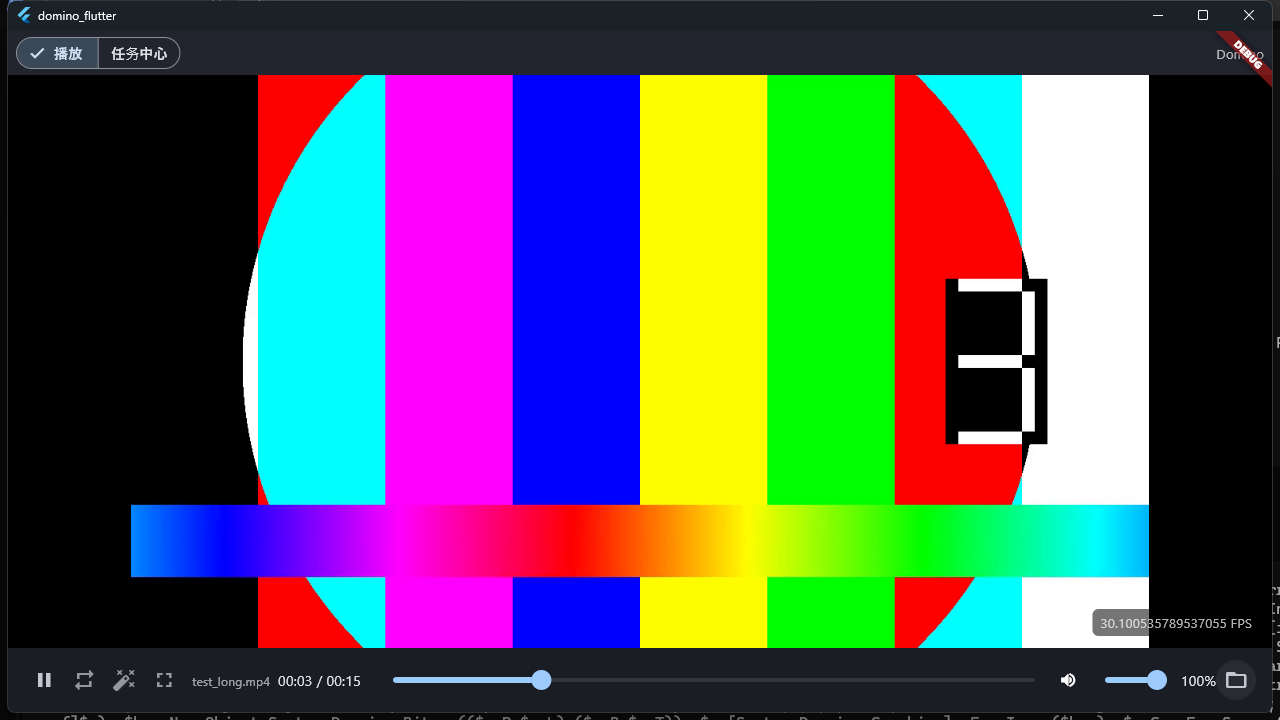
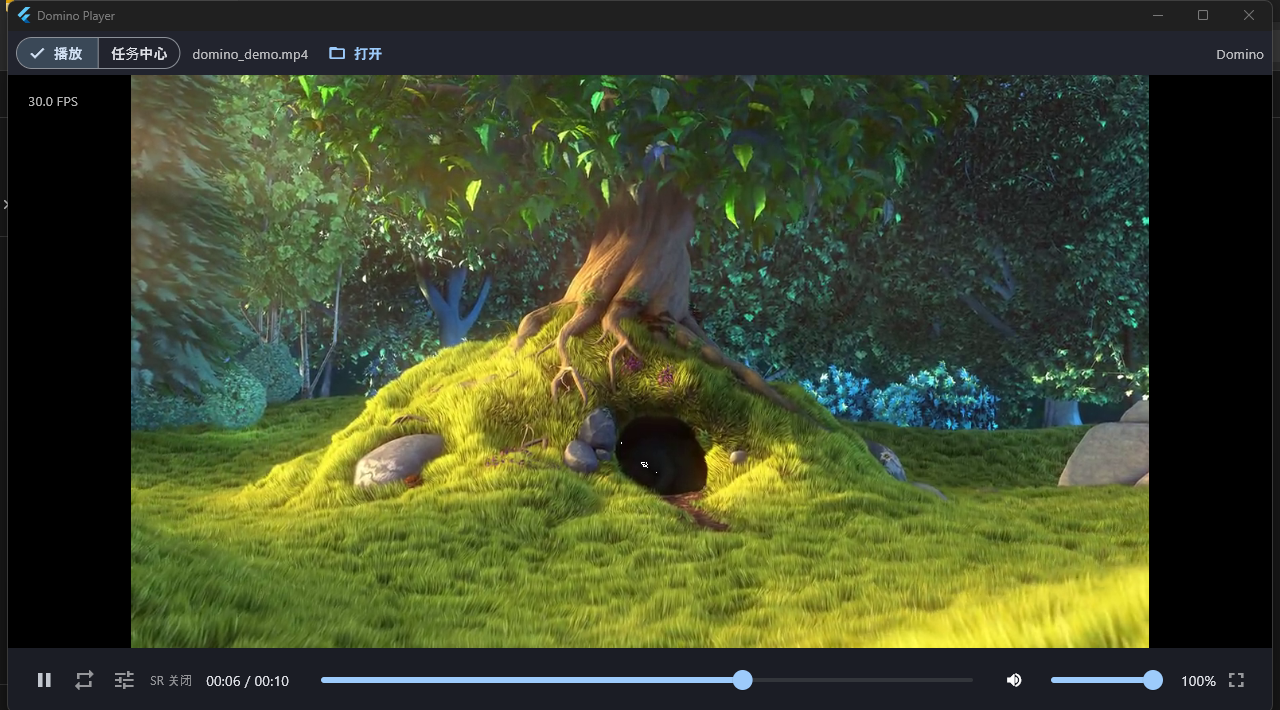
docs: 完善功能介绍与界面截图
- 补齐播放、全屏、美化、播放历史、实时 SR 与任务中心说明\n- 新增播放页、美化、历史、任务中心、全屏截图\n- 增加安全与隐私、已知限制、模型库说明

diff --git a/README.md b/README.md
@@ -1,15 +1,84 @@
 # Domino Player
 
-跨平台视频**超分 + 美颜**播放器：**Flutter 前端**（当前 Windows 桌面）+ **可移植 C++ 引擎**（FFmpeg 解码 + NCNN Vulkan 超分）。
+跨平台视频**超分 + 美颜**播放器：**Flutter 前端**（当前 Windows 桌面）+ **可移植 C++ 引擎**（FFmpeg 解码 / 编码 + NCNN Vulkan 超分）。
 
-- **播放**：播放/暂停/seek/音量/循环、**GPU 着色器磨皮/美白/滤镜**（D3D11 HLSL，CPU 自动回退）、滤镜缩略图、动态宽高比、FPS 角标、系统文件选择框。
-- **实时超分（实验性）**：播放页手动切换关闭/1080p/2K/4K；解码/SR 已移到原生工作线程，720p 源 1080p 约 29 FPS，2K/4K 分别约 15/6 FPS。2K/4K 持续跟不上音频时会**自动降到 1080p**（仍慢则关闭 SR），手动选档可重试（详见 `docs/plan-sr-worker-2026-10.md`、`docs/plan-auto-degrade-2026-10.md`）。
-- **超分任务中心**：新建/开始/暂停/断点续编/边播放（边编码边看）/删除，任务持久化。新建任务可选 **快速/平衡/高质量**（默认高质量 FullSource）、**真人/实拍 / 动画** 内容类型，以及 **标准 / 高质量** 模型档位；动画标准会按目标比例自动选 animevideov3 **x2/x3/x4**，真人标准目前用 General x4；高质量档用 x4plus / x4plus-anime（更慢，输入限 960）。模型随任务保存并在续编时沿用。高质量保留源分辨率送 4x 模型，再 Lanczos 缩到目标，编码 CRF18；比实时路径更慢但细节更好（见 `docs/plan-offline-sr-quality-2026-10.md`）。
-- **引擎可移植**：`domino_core` 不含任何平台依赖（视频经 `IFrameOutput`、音频经 `AudioSink`），任意前端可链接（Windows 现用 WASAPI + Flutter 纹理）。
-
-架构、约束与完成定义（DoD）见 [`AGENTS.md`](AGENTS.md)；当前进度与里程碑见 [`docs/roadmap.md`](docs/roadmap.md)。
+当前重点是把「实时播放」和「离线超分任务」做成一套可用的桌面工具：播放页支持沉浸式全屏、侧边美化 / 播放历史、实时 SR；任务中心支持新建、暂停、断点续编、边播放和删除任务。
 
 ![Domino Player 播放界面](docs/screenshots/main.png)
+
+## 功能一览
+
+### 播放与交互
+
+- **本地视频播放**：FFmpeg 解码，音频经 WASAPI 输出，支持播放 / 暂停、seek、音量、循环、动态宽高比。
+- **沉浸式全屏**：隐藏首页标签栏和播放页顶栏，只保留视频；控制条 3 秒无操作自动隐藏，移动鼠标 / 点击画面重新显示，`Esc` 或右下角按钮退出。
+- **顶部文件栏**：当前文件名和「打开」按钮就在「播放 / 任务中心」标签旁；长文件名自动省略。
+- **控制条**：播放 / 暂停、循环、选项、实时 SR、时间、可拉伸 seek、音量、全屏；全屏按钮固定在控制条最右侧，窄窗口也保持可见。
+- **侧边选项面板**：从右侧滑入，合并「美化」和「播放历史」两个页签，不打断视频播放。
+- **播放历史**：自动记录最近 20 个影片及播放位置，点击历史项重新打开并续播；数据保存在 `%APPDATA%\DominoPlayer\history.json`。
+- **系统文件选择框**：通过 FFI 调用 Windows `IFileOpenDialog`，不额外引入文件选择插件。
+- **FPS / 状态提示**：左上角显示 FPS；SR 失败、自动降档、打开失败都有界面反馈。
+
+### 美颜与滤镜
+
+- **GPU 着色器美颜**：D3D11 HLSL 两遍高斯磨皮 + 美白 / 滤镜，经 Flutter GPU surface 直接上屏；无 D3D11 或设置 `DOMINO_CPU_BEAUTY=1` 时回退 CPU 路径。
+- **磨皮 / 美白**：各自独立滑杆和百分比，互不影响。
+- **7 种滤镜**：原图、黑白、日常清新、暖色、净色、复古胶片、粉调；三列网格展示，缩略图按当前画面实时生成。
+- **实时预览**：打开面板或调整磨皮 / 美白后自动刷新滤镜缩略图，方便对比效果。
+
+### 实时超分（实验性）
+
+- 播放页可切换 **SR 关闭 / 1080p / 2K / 4K**，由 NCNN Vulkan 实时推理。
+- 解码和 SR 已移到原生 VideoWorker，UI 线程只负责取帧和呈现；seek 带 generation，避免旧帧回跳。
+- 720p 源实时 1080p 约 **29.6 FPS**；2K / 4K 约 **15 / 5.9 FPS**，取决于显卡和片源。
+- **自动降档**：4K / 2K 持续落后音频约 1 秒会降到 1080p；1080p 仍跟不上则关闭 SR。手动选档会清除自动降档状态并重试。
+- 开启 SR 后仍可叠加 GPU 美颜和滤镜。
+
+### 离线超分任务中心
+
+- **新建任务**：选择源视频、输出分辨率、超分质量（快速 / 平衡 / 高质量）、内容类型（真人/实拍 / 动画）和模型档位（标准 / 高质量）。
+- **任务管理**：开始、暂停、断点续编、边播放（编码产物边写边看）、删除；任务状态和进度实时刷新。
+- **持久化**：任务信息写入 `meta.tsv`，包括质量档、内容类型、模型和 SR 输入策略；重启或续编时沿用，不会悄悄换模型。
+- **断点续编**：取消或失败后保留续编分段，下次启动先合并再继续；主文件替换有备份和回滚。
+- **编码设置**：输出 MP4 / fMP4，`faststart`；x264 CRF18 + preset slow，关闭 B 帧并启用 `zerolatency`，避免 fMP4 音视频起点偏移。
+- **输出质量**：默认高质量 FullSource 输入（源分辨率，最高 1920 宽），4x 模型推理后用 Lanczos 缩放到目标分辨率；高质量模型档细节更好但更慢。
+
+### 模型库
+
+| 模型 | 用途 | 倍率 | 说明 |
+|---|---|---:|---|
+| `RealESRGAN_General_x4_v3` | 真人/实拍标准 | 4x | 通用 Real-ESRGAN，实时与离线默认标准模型 |
+| `realesr-animevideov3-x2` | 动画标准 | 2x | 目标 ≤ 2x 源宽时自动选择 |
+| `realesr-animevideov3-x3` | 动画标准 | 3x | 目标 ≤ 3x 源宽时自动选择 |
+| `realesr-animevideov3-x4` | 动画标准 | 4x | 更大放大倍率 |
+| `realesrgan-x4plus` | 真人/实拍高质量 | 4x | 输入上限 960，慢但细节更强 |
+| `realesrgan-x4plus-anime` | 动画高质量 | 4x | 输入上限 960，动画线条更干净 |
+
+- 动画标准会按 `目标宽 / 源宽` 自动选 x2 / x3 / x4；真人标准目前只有 x4。
+- 高质量档 `x4plus` / `x4plus-anime` 的输入宽限制为 960，超出会先缩放，避免显存溢出。
+- 模型文件和许可说明在 [`assets/models/sr/ncnn/`](assets/models/sr/ncnn/)；任务续编会沿用创建时选择的模型。
+
+### 可移植引擎
+
+- `domino_core` 不依赖 D3D11 / WASAPI：视频经 `IFrameOutput` 输出，音频经 `AudioSink` 注入，任意前端都可链接。
+- Windows 使用 WASAPI + Flutter 纹理；后续移动端只需注入对应 `AudioSink` / 视频输出实现。
+- Flutter 通过 `domino_engine.dll` 的 `extern "C"` FFI 桥调用引擎；GPU 美颜使用 D3D11 共享纹理上屏。
+- A/V 同步按音频时钟和 PTS 呈现；暂停 / 恢复 / seek 都会重置时钟锚点。
+
+## 截图
+
+<p align="center">
+  <img src="docs/screenshots/main.png" width="49%" alt="播放页：顶栏文件、控制条和实时 FPS" />
+  <img src="docs/screenshots/beauty.png" width="49%" alt="美化面板：磨皮/美白滑杆与三列滤镜" />
+</p>
+<p align="center">
+  <img src="docs/screenshots/history.png" width="49%" alt="播放历史侧栏" />
+  <img src="docs/screenshots/task-center.png" width="49%" alt="超分任务中心新建任务" />
+</p>
+
+![全屏播放界面](docs/screenshots/fullscreen.png)
+
+> 截图中的演示视频来自 Blender Foundation 的 *Big Buck Bunny*（CC BY 3.0），仅用于界面展示，不随仓库分发。
 
 ## 下载（Windows 预编译包）
 
@@ -30,7 +99,7 @@
   - `libs/ffmpeg/ffmpeg-master-latest-win64-gpl-shared/`
   - `libs/ncnn/ncnn-20260526-windows-vs2022-shared/`
 
-超分模型：`assets/models/sr/ncnn/RealESRGAN_General_x4_v3.{param,bin}`。
+超分模型放在 `assets/models/sr/ncnn/`，包括标准、动画 x2/x3/x4 和高质量模型（见上表）。
 
 ## 构建与运行
 
@@ -59,7 +128,7 @@ ctest --test-dir build -C Release --output-on-failure      # ~5s，应 0 failed
 | C++ 引擎 | `ctest --test-dir build -C Release` | decode/encode/task/player/config/beauty/frame_output/sr，headless |
 | Flutter | `cd flutter && flutter test` | 纯 Dart，无需 DLL；用 `FakeEngine` 桩驱动 UI |
 
-测试细节见 [`tests/README.md`](tests/README.md)。
+当前 Flutter 测试覆盖：播放控制、全屏 / 自动隐藏、侧边面板、播放历史、美化布局、窄窗口布局、任务中心和 SR 状态等。测试细节见 [`tests/README.md`](tests/README.md)。
 
 ## 目录结构
 
@@ -68,25 +137,45 @@ ctest --test-dir build -C Release --output-on-failure      # ~5s，应 0 failed
 │   ├── engine.h          # IFrameOutput 视频输出抽象
 │   ├── audio_interface.h # AudioSink 音频抽象（Windows=WASAPI，可注入）
 │   ├── player.{h,cpp}    # 播放核心（解码/超分/调度/A·V 同步/seek）
-│   ├── frame_output.*    # EngineFrameOutput：CPU 美颜 + 帧缓冲（Flutter 纹理用）
+│   ├── frame_output.*    # 视频帧输出 / CPU 美颜
 │   ├── beauty_math.h     # 美颜/滤镜纯数学（可单测）
 │   └── decode / encode / sr / task / config / log
 ├── flutter/              # Flutter 前端
-│   ├── lib/main.dart             # 播放页 + 首页（播放/任务中心）
+│   ├── lib/main.dart             # 播放页、首页、全屏、选项面板
 │   ├── lib/core/engine.dart      # EngineApi 抽象 + domino_engine.dll FFI 绑定
+│   ├── lib/core/history.dart     # 播放历史持久化
 │   ├── lib/core/format.dart      # 展示层纯函数
 │   ├── lib/ui/task_center.dart   # 任务中心
-│   ├── native/engine_bridge.*    # C++ 桥（extern "C" 导出 + Flutter 像素纹理 + 文件框 + 全屏）
+│   ├── native/engine_bridge.*    # C++ 桥（FFI + 纹理 + 文件框 + 全屏）
 │   └── test/                     # Dart 测试
 ├── tests/                # C++ 单测 + assets + GUI 自动化脚本
 ├── libs/                 # 依赖（ffmpeg/ncnn 本地放置，git 忽略）
 ├── assets/models/sr/ncnn/# 超分模型
-└── docs/                 # roadmap / project-structure
+├── docs/screenshots/     # README 截图
+└── docs/                 # roadmap / project-structure / plans
 ```
+
+## 安全与隐私
+
+- **离线运行**：播放、超分、美颜和任务编码都在本地完成；代码中没有遥测、账号系统或上传视频的接口。
+- **本地数据**：播放历史写到 `%APPDATA%\DominoPlayer\history.json`，离线任务写到 `%APPDATA%\DominoPlayer\sr-tasks\`；删除对应目录即可清空。
+- **无密钥**：仓库不包含 API Key、令牌、私钥或云服务凭据；FFmpeg / NCNN 运行库和模型二进制按各自许可获取。
+- **路径建议**：本地构建/调试时不要把个人绝对路径写进源码或提交信息；模型/数据目录优先通过环境变量或本地未跟踪文件配置。
+- **历史作者邮箱**：Git 历史中的提交作者信息会随仓库公开。如果不想公开个人邮箱，请在首次公开 / 强制推送前用 GitHub noreply 地址改写提交作者，或使用仓库的 `.mailmap` 做映射（`.mailmap` 只影响显示，不改变 Git 对象）。
+
+第三方组件和模型许可见 [`THIRD_PARTY_NOTICES.md`](THIRD_PARTY_NOTICES.md)。特别注意 FFmpeg GPL 构建的分发约束。
+
+## 已知限制
+
+- 2K / 4K 实时 SR 还达不到稳定 30 FPS，复杂片源依赖自动降档；真正 4K 实时仍需要更轻量的模型或推理优化。
+- 真人 2x/3x 暂未接入可用模型；动画 x2/x3 已支持，真人 1.5x 可用 2x 后缩放。
+- `x4plus` / `x4plus-anime` 输入宽限制 960，质量更好但明显更慢；1080p→4K FullSource 中间帧较大，峰值内存约 1.9GB。
+- 移动端尚未实机验证；引擎接口已按可移植方式拆分。
+- 当前只提供 Windows 预编译包；其他平台需自行构建并注入 `AudioSink`。
 
 ## 文档
 
-- [`AGENTS.md`](AGENTS.md) — 项目宪章：目标、硬约束、DoD、**已知坑**（改桥/引擎前必读）
+- [`AGENTS.md`](AGENTS.md) — 项目宪章：目标、硬约束、DoD、已知坑
 - [`CONTRIBUTING.md`](CONTRIBUTING.md) — 贡献指南（环境/构建/DoD/提交规范）
 - [`docs/roadmap.md`](docs/roadmap.md) — 当前状态与里程碑
 - [`docs/project-structure.md`](docs/project-structure.md) — 分层与文件说明
